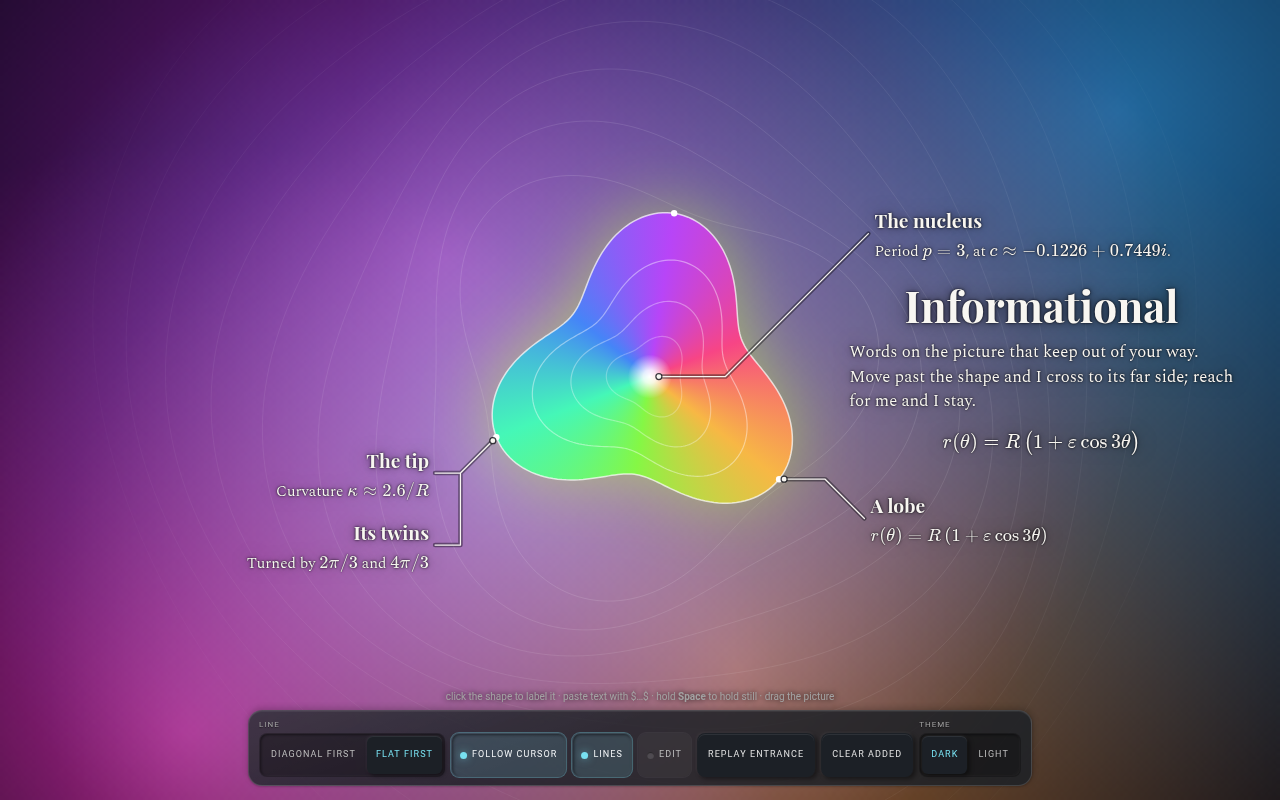
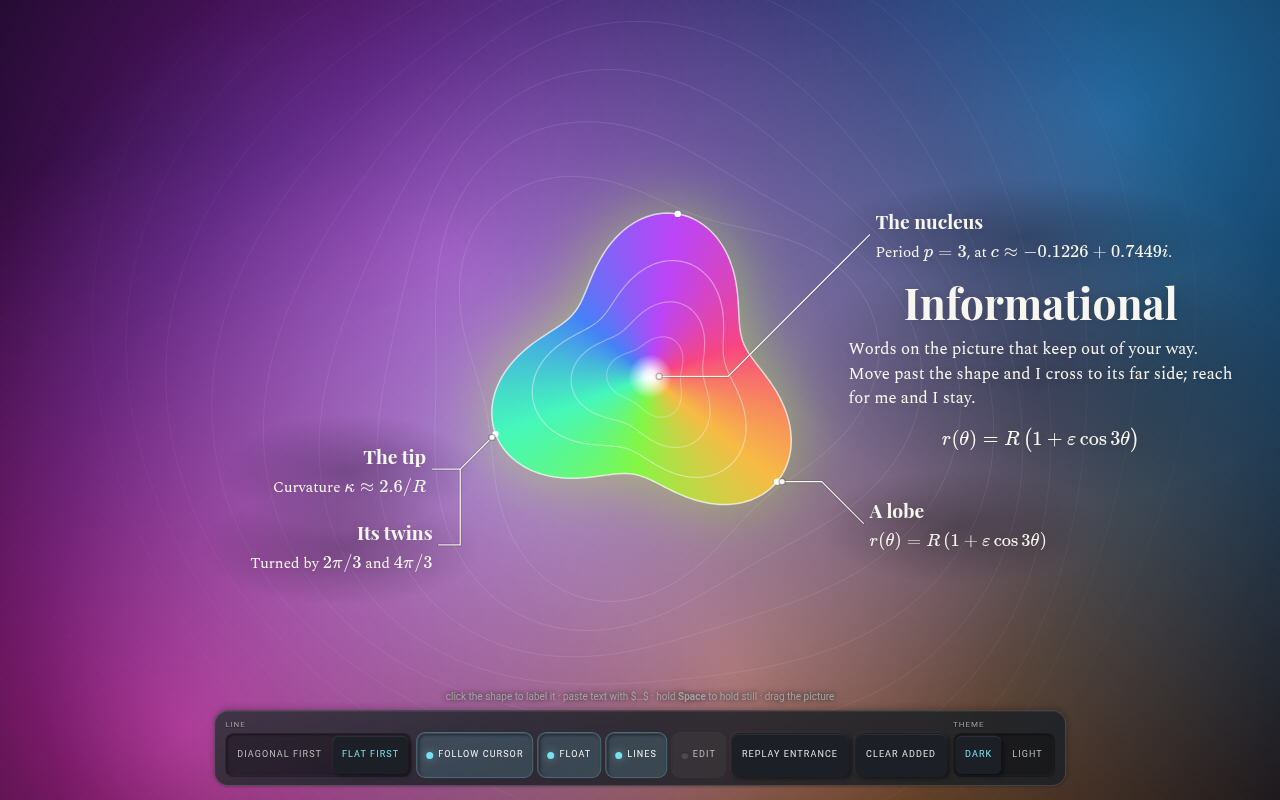
MIR 1.5.0-alpha.2: INFORMATIONAL retuned — a soft darkness under the words, and everything floats
Josh, on the first page: "way less drop shadow or outline. Let it be a soft
darkness underneath … make the cursor parallax/avoidance more stronger and
smoother, everything moving and floaty."

- info.css: no tight shadow round the glyphs. A feathered ellipse in the
  opposite ink sits under each block of words, and the glyphs carry only a
  broad, weak blur. The line's under-stroke is thinner.
- bodies.js: softer springs (labels k 70 ζ 0.6, blocks k 34 ζ 0.72); the
  pointer reaches 260 px, gives about 74 px at contact and lets go over
  0.9 s; a body may carry an offset on top of its rest; neighbours bump only
  when closer than 2 px in flight, so bodies whose leans differ can still
  rest; the cap is 300 frames; a runner can be kept alive.
- layer.js: PARALLAX, everything leans away from the cursor (blocks 38 px,
  labels 22–30 px, eased), held while a block is reached for, clamped inside
  the walls; DRIFT, a slow bob per item (off by default, on in the gallery
  page as FLOAT); a dropped label ends where the hand left it once the lean
  has caught up. setParallax, setDrift.
- gallery/info.html: FLOAT switch. Plates retaken.

Tests: 17 body checks (offset, alive, the new numbers), 20 browser checks
made lean-aware (a body rests on its seat plus its lean). npm test 30/30.

Claude-Session: https://claude.ai/code/session_01216PZJdRDXuZKuuo4X6KUw

diff --git a/mir/info/layer.js b/mir/info/layer.js
@@ -46,8 +46,12 @@ export const INFO = Object.freeze({
   gap: 36, out: 46, rise: 34, pad: 6, comb: 14, margin: 14,
   enter: { dot: 140, lineAt: 60, line: 260, textAt: 200, perLine: 30, maxLines: 6, stagger: 55, maxStagger: 5, block: 340, blockLine: 45 },
   exit: { text: 120, lineAt: 70, line: 120, dot: 90, stagger: 25 },
-  fade: 120, travel: 60,
-  block: { k: 95, zeta: 0.8 },
+  fade: 120, travel: 96,
+  block: { k: 34, zeta: 0.72 },
+  /* PARALLAX against the cursor (px of travel at the stage's edge, per kind; eased over tau seconds) and DRIFT, a
+     slow bob that never stops while it is on (Josh, 10-01: "everything moving and floaty") */
+  par: { block: 38, label: 22, step: 4, tau: 0.28 },                // depths differ by ≤ 16 px: less than gap − bump, so rests stay reachable
+  drift: { block: 5, label: 3.5 },
 });
 const SVG = 'http://www.w3.org/2000/svg';
 const sgn = (v) => (v < 0 ? -1 : 1);
@@ -70,7 +74,7 @@ const spring = () => {
   return (SPRING = ok ? s : { easing: motionToken('out'), ms: 300 });
 };
 
-export function createInfoLayer({ stage, host = stage.parentElement, subject = null, features = null, style = 'diagonal-first', follow = true, lines = true } = {}) {
+export function createInfoLayer({ stage, host = stage.parentElement, subject = null, features = null, style = 'diagonal-first', follow = true, lines = true, parallax = true, drift = false } = {}) {
   const doc = stage.ownerDocument, win = doc.defaultView;
   const root = doc.createElement('div'); root.className = 'mir-info';
   root.dataset.style = style; root.dataset.lines = lines ? 'on' : 'off';
@@ -86,16 +90,35 @@ export function createInfoLayer({ stage, host = stage.parentElement, subject = n
 
   /* ── the bodies ─────────────────────────────────────────────────────────────────────────────────────────── */
   const bodies = () => items.filter((i) => i.measured).map((i) => i.body);
+  const par = { x: 0, y: 0 };                                       // the pointer's place, −1…1 from the stage's middle, eased
+  let envT = 0;
   const env = () => {
-    ptr.heat = ptr.on ? Math.exp(-(performance.now() - ptr.t) / (PHYS.tau * 1000)) : 0;
-    for (const it of items) {                                       // a block crossing over the subject lifts off it
-      if (it.kind !== 'block' || !S.has) { it.body.lift = 0; continue; }
-      const b = it.body, over = b.x < S.right && b.x + b.w > S.left && b.y < S.bottom && b.y + b.h > S.top;
-      it.body.lift = over && Math.abs(b.vx) > 40 ? -sgn(S.cy - (b.y + b.h / 2)) * 700 : 0;
+    const now = performance.now(), dt = envT ? Math.min(0.1, (now - envT) / 1000) : 1 / 60; envT = now;
+    ptr.heat = ptr.on ? Math.exp(-(now - ptr.t) / (PHYS.tau * 1000)) : 0;
+    /* PARALLAX: everything leans away from the cursor, the blocks more than the labels, eased so it never jerks */
+    const on = parallax && follow && ptr.on && !ptr.touch && W > 0 && H > 0;
+    const tx = on ? Math.max(-1, Math.min(1, (ptr.x - W / 2) / (W / 2))) : 0, ty = on ? Math.max(-1, Math.min(1, (ptr.y - H / 2) / (H / 2))) : 0;
+    const ease = 1 - Math.exp(-dt / INFO.par.tau);
+    par.x += (tx - par.x) * ease; par.y += (ty - par.y) * ease;
+    if (Math.abs(tx - par.x) < 1e-3) par.x = tx; if (Math.abs(ty - par.y) < 1e-3) par.y = ty;   // arrive, so the rest is exact
+    const t = now / 1000;
+    for (const it of items) {
+      const b = it.body;
+      if (!it.el.hasAttribute('data-reach')) { it.px = -par.x * it.depth; it.py = -par.y * it.depth * 0.7; }   // reaching is not fleeing: it holds its lean
+      const dx = drift ? Math.sin(t * it.f1 + it.ph) * it.amp : 0, dy = drift ? Math.cos(t * it.f2 + it.ph * 1.7) * it.amp * 0.8 : 0;
+      b.ox = (it.px || 0) + dx; b.oy = (it.py || 0) + dy;
+      /* a lean never asks for a place beyond the soft walls, or the body could not reach it and would never rest */
+      const m = PHYS.margin, hiX = W - m - b.w, hiY = H - m - b.h;
+      if (hiX > m) b.ox = Math.max(Math.min(m, b.rx), Math.min(b.rx + b.ox, Math.max(hiX, b.rx))) - b.rx;
+      if (hiY > m) b.oy = Math.max(Math.min(m, b.ry), Math.min(b.ry + b.oy, Math.max(hiY, b.ry))) - b.ry;
+      if (it.kind !== 'block' || !S.has) { b.lift = 0; continue; }  // a block crossing over the subject lifts off it
+      const over = b.x < S.right && b.x + b.w > S.left && b.y < S.bottom && b.y + b.h > S.top;
+      b.lift = over && Math.abs(b.vx) > 40 ? -sgn(S.cy - (b.y + b.h / 2)) * 700 : 0;
     }
     return { pointer: frozen ? null : ptr, bounds: { left: 0, top: 0, right: W, bottom: H } };
   };
-  const runner = createRunner({ frame, bodies, env, paint: () => paint(), policy: motionPolicy, key: 'info:bodies:' + Math.random().toString(36).slice(2) });
+  const runner = createRunner({ frame, bodies, env, paint: () => paint(), policy: motionPolicy, alive: () => drift && !frozen && !destroyed && !doc.hidden,
+    key: 'info:bodies:' + Math.random().toString(36).slice(2) });
   const kick = () => { if (!frozen && !destroyed) runner.kick(); };
 
   /* ── geometry ───────────────────────────────────────────────────────────────────────────────────────────── */
@@ -193,7 +216,7 @@ export function createInfoLayer({ stage, host = stage.parentElement, subject = n
       if (!it.measured) continue;
       const b = it.body;
       setVar(it.el, 'translate', `${px(b.x)}px ${px(b.y)}px`);
-      if (it.kind === 'block') setAttr(it.el, 'data-travel', Math.hypot(b.x - b.rx, b.y - b.ry) > INFO.travel ? '' : null);
+      if (it.kind === 'block') setAttr(it.el, 'data-travel', Math.hypot(b.x - b.rx - b.ox, b.y - b.ry - b.oy) > INFO.travel ? '' : null);
     }
     const flat = root.dataset.style === 'flat-first', show = root.dataset.lines === 'on';
     for (const g of groups.values()) {
@@ -225,6 +248,11 @@ export function createInfoLayer({ stage, host = stage.parentElement, subject = n
     const it = { kind, id, el, text, pin, body: createBody({ id, x: 0, y: 0, w: 0, h: 0 }), measured: false, w: 0, h: 0, titleH: 0, titleW: 0,
       side: 0, offset: null, title: o.title || '', md: o.md || '', pinned: false, holdUntil: 0, anims: [] };
     if (kind === 'block') { it.body.k = INFO.block.k; it.body.zeta = INFO.block.zeta; it.side = 1; it.holdUntil = performance.now() + (o.hold || 0); }
+    /* how far it leans from the cursor, and its own slow bob: each item a little different, so they read as layers */
+    const n = items.length;
+    it.depth = kind === 'block' ? INFO.par.block : INFO.par.label + INFO.par.step * (n % 3);
+    it.amp = kind === 'block' ? INFO.drift.block : INFO.drift.label;
+    it.ph = n * 2.399963; it.f1 = 0.55 + 0.13 * (n % 3); it.f2 = 0.43 + 0.11 * (n % 4); it.px = 0; it.py = 0;
     items.push(it);
     ready.then(() => {
       if (destroyed || !it.el.isConnected) return;
@@ -402,10 +430,11 @@ export function createInfoLayer({ stage, host = stage.parentElement, subject = n
     const over = S.has && p.x > S.left && p.x < S.right && p.y > S.top && p.y < S.bottom;
     if (over !== ptr.onSubject) { ptr.onSubject = over; setAttr(root, 'data-pointer', over ? 'subject' : null); }
     judge();
-    /* only a pointer near a body is a disturbance — moving across empty picture costs nothing */
-    if (!frozen && items.some((it) => it.measured && inside(p, it.body, PHYS.reach))) kick();
+    /* with parallax every move over the stage leans the layer; without it only a pointer near a body disturbs it */
+    const overStage = p.x >= 0 && p.x <= W && p.y >= 0 && p.y <= H;
+    if (!frozen && ((parallax && follow && overStage) || items.some((it) => it.measured && inside(p, it.body, PHYS.reach)))) kick();
   }
-  function onLeave() { ptr.on = false; ptr.onSubject = false; setAttr(root, 'data-pointer', null); for (const it of items) { it.since = 0; setAttr(it.el, 'data-reach', null); } }
+  function onLeave() { ptr.on = false; ptr.onSubject = false; setAttr(root, 'data-pointer', null); for (const it of items) { it.since = 0; setAttr(it.el, 'data-reach', null); } kick(); }
   function hold(on) { held = on; applyFreeze(); }
   win.addEventListener('pointermove', onMove, on);
   win.addEventListener('pointerout', (e) => { if (!e.relatedTarget) onLeave(); }, on);   // out of the window
@@ -453,7 +482,10 @@ export function createInfoLayer({ stage, host = stage.parentElement, subject = n
     });
     const settleDrag = () => {
       const A = it.group.A, L = attach(it, A);
-      it.offset = { dx: L.x - A.x, dy: L.y - A.y };
+      /* less the lean it will have once the parallax has caught up with the hand, so it ends where the hand left it */
+      const on = parallax && follow && ptr.on && !ptr.touch && W > 0 && H > 0;
+      const lx = on ? -Math.max(-1, Math.min(1, (ptr.x - W / 2) / (W / 2))) * it.depth : 0, ly = on ? -Math.max(-1, Math.min(1, (ptr.y - H / 2) / (H / 2))) * it.depth * 0.7 : 0;
+      it.offset = { dx: L.x - A.x - lx - (it.body.ox - it.px), dy: L.y - A.y - ly - (it.body.oy - it.py) };
       it.body.held = false; setAttr(it.el, 'data-carried', null);
       computeRests(); kick();
     };
@@ -484,7 +516,10 @@ export function createInfoLayer({ stage, host = stage.parentElement, subject = n
     },
     addBlock({ md = '', hold = 0, id } = {}) { return handle(make('block', { md, hold, id })); },
     setStyle(s) { root.dataset.style = s === 'flat-first' ? 'flat-first' : 'diagonal-first'; schedule(); },
-    setFollow(v) { follow = !!v; if (!follow) { win.clearTimeout(dwellTimer); dwellTimer = 0; } },
+    setFollow(v) { follow = !!v; if (!follow) { win.clearTimeout(dwellTimer); dwellTimer = 0; } kick(); },
+    /** setParallax(on) — everything leans away from the cursor; setDrift(on) — a slow bob that keeps the frame on */
+    setParallax(v) { parallax = !!v; kick(); },
+    setDrift(v) { drift = !!v; kick(); },
     setLines(v) { root.dataset.lines = v ? 'on' : 'off'; schedule(); },
     setEdit(v) { edit = !!v; setAttr(root, 'data-edit', edit ? '' : null); },
     freeze(v) { userFrozen = !!v; applyFreeze(); },
@@ -508,7 +543,7 @@ export function createInfoLayer({ stage, host = stage.parentElement, subject = n
     debug() {
       return {
         subject: { ...S }, running: runner.running, frozen, size: { W, H },
-        items: items.map((i) => ({ id: i.id, kind: i.kind, x: i.body.x, y: i.body.y, rx: i.body.rx, ry: i.body.ry, w: i.w, h: i.h, side: i.side, titleH: i.titleH, measured: i.measured })),
+        items: items.map((i) => ({ id: i.id, kind: i.kind, x: i.body.x, y: i.body.y, rx: i.body.rx, ry: i.body.ry, ox: i.body.ox, oy: i.body.oy, w: i.w, h: i.h, side: i.side, titleH: i.titleH, measured: i.measured })),
         groups: [...groups.values()].map((g) => ({ key: String(g.key), A: g.A, d: g.ink.getAttribute('d') || '' })),
       };
     },

diff --git a/mir/info/bodies.js b/mir/info/bodies.js
@@ -8,32 +8,39 @@
  * exact and testable, and idle is zero work.  Under reduced motion there is no flight: bodies jump to rest.
  * (Draft 2 §A: the seats are chosen elsewhere; force only MOVES the bodies, which is what makes it feel alive.)
  *
- * The feel, settled by eye on gallery/info.html (units px and seconds, a body has mass 1):
- *   spring k 170 s⁻², ζ 0.72  → ω 13 rad/s, ~4 % overshoot, settled in ~0.45 s       (labels)
- *   blocks k 95 s⁻², ζ 0.8    → a heavier, calmer glide for a seat change
- *   neighbours: gap 18 px, push 520 s⁻² per px of overlap, along the shallower axis
- *   pointer: reach 120 px, push 4400 px/s² at contact fading as (1 − d/reach)², and with time since the last move
- *            (τ 180 ms) — a still pointer pushes nothing, so labels come home under it
- *   reaching is not fleeing: the push is scaled by how SIDEWAYS the pointer moves past a body; heading straight at
- *            it (or sitting on it) pushes nothing
+ * The feel (units px and seconds, a body has mass 1).  Josh, 2026-10-01, on the first page: "make the cursor
+ * parallax/avoidance more stronger and smoother, everything moving and floaty" — so the springs are soft and the
+ * pointer reaches far and lets go slowly:
+ *   spring k 70 s⁻², ζ 0.6    → ω 8.4 rad/s, ~9 % overshoot, settled in ~0.8 s        (labels: they float)
+ *   blocks k 34 s⁻², ζ 0.72   → a heavier, slower glide
+ *   neighbours: their RESTS are kept 18 px apart (gap); in flight they push only when closer than 2 px (bump),
+ *            520 s⁻² per px, along the shallower axis — so two bodies whose leans differ a little can still
+ *            reach their places and rest, instead of leaning on each other until the cap
+ *   pointer: reach 260 px, push 5200 px/s² at contact (≈ 74 px of give) fading as (1 − d/reach)², and with time
+ *            since the last move (τ 0.9 s) — a still pointer lets go slowly, and labels drift home under it
+ *   reaching is not fleeing: heading straight at a body (or sitting on it) pushes nothing; the push grows as
+ *            1 − toward² the more SIDEWAYS the pointer passes
+ *   a body may carry an OFFSET (ox, oy) on top of its rest: the layer's parallax and drift ride there, so the
+ *            rest itself stays the seat and `snap` lands on rest + offset
  *   walls: 10 px inside the bounds, 900 s⁻² per px
- *   rest: every |v| < 6 px/s and every |x − rest| < 0.4 px; a hard cap of 90 frames per disturbance
+ *   rest: every |v| < 6 px/s and every |x − target| < 0.4 px; a hard cap of 300 frames per disturbance
  *
  *   createBody({ id, x, y, w, h, k?, zeta? })      → a body (x, y = its box's top-left; rx, ry = its rest)
  *   step(bodies, dt, env, P)                       → { maxV, maxD } after one step (substepped)
  *   atRest(bodies, P), snap(bodies)                — the cut-off and the landing
  *   resolveRests(bodies, fixed, P)                 — rests pushed apart so no two rest boxes overlap (the seat pass)
- *   createRunner({ frame, bodies, env, paint, policy, P }) → { kick(), stop(), running, frames }
+ *   createRunner({ frame, bodies, env, paint, policy, P, alive? }) → { kick(), stop(), running, frames }
+ *     alive(): while it answers true the run never lands (a layer that drifts keeps its frame on purpose)
  */
 
 export const PHYS = Object.freeze({
-  k: 170, zeta: 0.72, gap: 18, push: 520, reach: 120, pointer: 4400, tau: 0.18,
-  wall: 900, margin: 10, vEps: 6, dEps: 0.4, cap: 90, maxDt: 1 / 30, sub: 1 / 120,
+  k: 70, zeta: 0.6, gap: 18, bump: 2, push: 520, reach: 260, pointer: 5200, tau: 0.9,
+  wall: 900, margin: 10, vEps: 6, dEps: 0.4, cap: 300, maxDt: 1 / 30, sub: 1 / 120,
 });
 
 /** createBody({ id, x, y, w, h, k, zeta }) — at rest where it starts */
 export function createBody(o) {
-  return { id: o.id, x: o.x, y: o.y, w: o.w || 0, h: o.h || 0, rx: o.rx ?? o.x, ry: o.ry ?? o.y,
+  return { id: o.id, x: o.x, y: o.y, w: o.w || 0, h: o.h || 0, rx: o.rx ?? o.x, ry: o.ry ?? o.y, ox: 0, oy: 0,
     vx: 0, vy: 0, k: o.k, zeta: o.zeta, held: false, solid: o.solid !== false, reach: o.reach !== false, lift: 0 };
 }
 
@@ -58,8 +65,8 @@ function sub(bodies, h, env, P) {
   for (let i = 0; i < n; i++) {
     const b = bodies[i]; if (b.held) continue;
     const k = b.k ?? P.k, c = 2 * (b.zeta ?? P.zeta) * Math.sqrt(k);
-    ax[i] += k * (b.rx - b.x) - c * b.vx;
-    ay[i] += k * (b.ry - b.y) - c * b.vy;
+    ax[i] += k * (b.rx + b.ox - b.x) - c * b.vx;
+    ay[i] += k * (b.ry + b.oy - b.y) - c * b.vy;
     /* the pointer parts them like water: strength fades with distance and with time since it moved; heading
        straight at a body (reaching) or sitting on it pushes nothing */
     if (pt && pt.heat > 0.01) {
@@ -67,7 +74,7 @@ function sub(bodies, h, env, P) {
       if (a.d > 0 && a.d < P.reach) {
         const sp = Math.hypot(pt.vx || 0, pt.vy || 0);
         const toward = sp > 1 ? Math.max(0, ((pt.vx * a.ux) + (pt.vy * a.uy)) / sp) : 1;
-        const s = P.pointer * pt.heat * (1 - a.d / P.reach) ** 2 * (b.reach ? 1 - toward : 1);
+        const s = P.pointer * pt.heat * (1 - a.d / P.reach) ** 2 * (b.reach ? 1 - toward * toward : 1);
         ax[i] += a.ux * s; ay[i] += a.uy * s;
       }
     }
@@ -81,7 +88,7 @@ function sub(bodies, h, env, P) {
   }
   for (let i = 0; i < n; i++) for (let j = i + 1; j < n; j++) {     // neighbours: a short-range push apart
     const a = bodies[i], b = bodies[j]; if (!a.solid || !b.solid) continue;
-    const o = overlap(a, a.x, a.y, b, b.x, b.y, P.gap); if (!o) continue;
+    const o = overlap(a, a.x, a.y, b, b.x, b.y, P.bump ?? P.gap); if (!o) continue;
     const horizontal = o.ox < o.oy;
     const dir = horizontal ? Math.sign((b.x + b.w / 2) - (a.x + a.w / 2)) || 1 : Math.sign((b.y + b.h / 2) - (a.y + a.h / 2)) || 1;
     const f = P.push * (horizontal ? o.ox : o.oy);
@@ -104,13 +111,13 @@ export function step(bodies, dt, env = {}, P = PHYS) {
 }
 function measure(bodies) {
   let maxV = 0, maxD = 0;
-  for (const b of bodies) { if (b.held) continue; maxV = Math.max(maxV, Math.hypot(b.vx, b.vy)); maxD = Math.max(maxD, Math.hypot(b.x - b.rx, b.y - b.ry)); }
+  for (const b of bodies) { if (b.held) continue; maxV = Math.max(maxV, Math.hypot(b.vx, b.vy)); maxD = Math.max(maxD, Math.hypot(b.x - b.rx - b.ox, b.y - b.ry - b.oy)); }
   return { maxV, maxD };
 }
 /** atRest(bodies, P) — nothing moving and everything home */
 export function atRest(bodies, P = PHYS) { const m = measure(bodies); return m.maxV < P.vEps && m.maxD < P.dEps; }
-/** snap(bodies) — land every free body exactly on its rest */
-export function snap(bodies) { for (const b of bodies) { if (b.held) continue; b.x = b.rx; b.y = b.ry; b.vx = 0; b.vy = 0; } }
+/** snap(bodies) — land every free body exactly on its rest (plus its offset, when it carries one) */
+export function snap(bodies) { for (const b of bodies) { if (b.held) continue; b.x = b.rx + b.ox; b.y = b.ry + b.oy; b.vx = 0; b.vy = 0; } }
 
 /** resolveRests(bodies, fixed, P) — push rest boxes apart until none overlap (bodies in `fixed` and held bodies do
  *  not move; the others yield).  Deterministic; a few passes are plenty for a screenful of labels. */
@@ -132,7 +139,7 @@ export function resolveRests(bodies, fixed = new Set(), P = PHYS, passes = 12) {
 
 /** createRunner({ frame, bodies, env, paint, policy, P, onRest }) — steps on the one frame only while it must.
  *  kick() is a disturbance: it (re)starts the run and resets the 90-frame cap. */
-export function createRunner({ frame, bodies, env = () => ({}), paint = () => {}, policy = () => 'full', P = PHYS, onRest = () => {}, key = 'info:bodies' }) {
+export function createRunner({ frame, bodies, env = () => ({}), paint = () => {}, policy = () => 'full', P = PHYS, onRest = () => {}, alive = () => false, key = 'info:bodies' }) {
   let running = false, frames = 0, last = 0, stopped = false;
   const land = () => { running = false; snap(bodies()); paint(); onRest(); };
   function tick(now) {
@@ -141,7 +148,7 @@ export function createRunner({ frame, bodies, env = () => ({}), paint = () => {}
     if (policy() !== 'full') { land(); return; }                    // reduced / off: no flight, they jump to rest
     const dt = last ? (now - last) / 1000 : 1 / 60; last = now;
     step(list, dt, env(), P); frames++;
-    if (atRest(list, P) || frames >= P.cap) { land(); return; }
+    if (!alive() && (atRest(list, P) || frames >= P.cap)) { land(); return; }
     paint();
     frame.coalesce(key, tick);                                       // queued during the batch: the next frame
   }

diff --git a/mir/info/info.css b/mir/info/info.css
@@ -1,9 +1,11 @@
 /* info/info.css — INFORMATIONAL: words on the picture.  Load after the kit's sheets (it is in mir.kit.house).
  *
- * THE LAW IT DRAWS: WORDS ON THE STAGE ARE INK PLUS A HALO — NEVER A PANE.  No background, no border, no drop
- * shadow height: the halo is the opposite ink, blurred, round every glyph and under every line, so the words read
- * over a loud picture without a box (INTENT, the proposed row "words on the stage").  The layer never takes a
- * click: `pointer-events: none` throughout, except a label while EDIT is on.
+ * THE LAW IT DRAWS: WORDS ON THE STAGE ARE INK OVER A SOFT DARKNESS — NEVER A PANE, NEVER AN OUTLINE.  Josh,
+ * 2026-10-01, on the first page: "way less drop shadow or outline.  Let it be a soft darkness underneath."  So
+ * there is no tight shadow round the glyphs: a wide, faint shade sits under each block of words (a feathered
+ * ellipse in the opposite ink, no edge), and the glyphs carry only a broad, weak blur of it (INTENT, the row
+ * "words on the stage").  The layer never takes a click: `pointer-events: none` throughout, except a label while
+ * EDIT is on.
  *
  * Type comes through tokens; the real faces (Spectral, Playfair Display, Alegreya SC for links) are in
  * mir/info/faces.css — a page links it before this sheet, and without it the system serifs stand in.  Sizes are read from the layer's own width (`cqi`), not the
@@ -13,11 +15,11 @@
 @layer mir.kit.house {
   .mir-info {
     --info-ink: hsl(40 33% 96%);
-    --info-paper: hsl(228 40% 4% / .78);
-    --info-paper-soft: hsl(228 40% 4% / .42);
-    --info-halo: 0 0 1px var(--info-paper), 0 0 3px var(--info-paper), 0 0 9px var(--info-paper-soft), 0 0 22px var(--info-paper-soft);
+    --info-paper: hsl(228 40% 4% / .27);
+    --info-paper-soft: hsl(228 40% 4% / .14);
+    --info-halo: 0 1px 12px var(--info-paper-soft), 0 2px 30px var(--info-paper-soft);
     --info-line-w: 1.25px;
-    --info-halo-w: 4.5px;
+    --info-halo-w: 3px;
     --info-lh: 1.45;
     --info-size-body: clamp(14px, 8px + .68cqi, 18px);
     --info-size-label: clamp(13px, 7.5px + .6cqi, 16.5px);
@@ -38,8 +40,8 @@
   }
   [data-theme="light"] .mir-info {
     --info-ink: hsl(232 22% 10%);
-    --info-paper: hsl(42 45% 97% / .86);
-    --info-paper-soft: hsl(42 45% 97% / .5);
+    --info-paper: hsl(42 45% 97% / .38);
+    --info-paper-soft: hsl(42 45% 97% / .2);
   }
 
   /* ── the lines: one svg, a halo stroke under the ink, a dot on the thing's edge ── */
@@ -52,12 +54,19 @@
   .mir-info-ink { stroke: var(--info-ink); stroke-width: var(--info-line-w); }
   .mir-info-dot { fill: var(--info-ink); stroke: var(--info-paper); stroke-width: var(--info-line-w); transform-box: fill-box; transform-origin: center; }
 
-  /* ── labels and blocks: ink, a halo, no box ── */
+  /* ── labels and blocks: ink over a soft shade, no box, no outline ── */
   .mir-info-label, .mir-info-block {
-    position: absolute; left: 0; top: 0; box-sizing: border-box; margin: 0;
+    position: absolute; left: 0; top: 0; box-sizing: border-box; margin: 0; isolation: isolate;
     text-shadow: var(--info-halo); visibility: hidden;
     transition: opacity var(--motion-structural) var(--ease-out);
   }
+  /* the shade: a feathered ellipse under the words, wider than they are, with no edge to see */
+  .mir-info-label::before, .mir-info-block::before {
+    content: ''; position: absolute; z-index: -1; inset: -2em -3.2em; pointer-events: none;
+    background: radial-gradient(ellipse closest-side, var(--info-paper) 0%, var(--info-paper-soft) 50%, transparent 100%);
+    opacity: 0; transition: opacity var(--motion-structural) var(--ease-out);
+  }
+  .mir-info-label[data-state="in"]::before, .mir-info-block[data-state="in"]::before { opacity: 1; }
   .mir-info-label[data-state="in"], .mir-info-block[data-state="in"] { visibility: visible; }
   .mir-info-label { width: max-content; max-width: var(--info-measure); font-size: var(--info-size-label); }
   .mir-info-label[data-side="left"] { text-align: right; }

diff --git a/gallery/info.html b/gallery/info.html
@@ -131,7 +131,7 @@ const subjectRect = () => { const r = P.R * 1.24; return { left: P.cx - r, top: 
 
 /* ── THE LAYER ─────────────────────────────────────────────────────────────────────────────────────────────── */
 resize();
-const layer = createInfoLayer({ stage: canvas, host, subject: subjectRect, features: feats });
+const layer = createInfoLayer({ stage: canvas, host, subject: subjectRect, features: feats, drift: true });
 window.__INFO = layer;
 const greeting = String.raw`# Informational
 Words on the picture that keep out of your way. Move past the shape and I cross to its far side; reach for me and I stay.
@@ -192,7 +192,8 @@ canvas.addEventListener('dblclick', () => { view.tx = 0; view.ty = 0; });
 const strip = document.getElementById('strip');
 strip.append(
   seg({ label: 'LINE', value: 'diagonal-first', options: [{ id: 'diagonal-first', label: 'DIAGONAL FIRST', title: 'thing → 45° → flat, the flat part underlining the title' }, { id: 'flat-first', label: 'FLAT FIRST', title: 'thing → flat → 45° → text' }], onChange: (v) => layer.setStyle(v) }).root,
-  sw({ label: 'FOLLOW CURSOR', value: true, title: 'the greeting keeps to the far side of the shape from your pointer', onChange: (v) => layer.setFollow(v) }).root,
+  sw({ label: 'FOLLOW CURSOR', value: true, title: 'everything leans away from your pointer, and the greeting keeps to the far side of the shape', onChange: (v) => layer.setFollow(v) }).root,
+  sw({ label: 'FLOAT', value: true, title: 'a slow drift, so nothing ever sits quite still', onChange: (v) => layer.setDrift(v) }).root,
   sw({ label: 'LINES', value: true, onChange: (v) => layer.setLines(v) }).root,
   sw({ label: 'EDIT', value: false, title: 'drag a label; its neighbours yield', onChange: (v) => layer.setEdit(v) }).root,
   trig({ label: 'REPLAY ENTRANCE', onFire: () => layer.replay() }).root,

diff --git a/docs/INFORMATIONAL.md b/docs/INFORMATIONAL.md
@@ -39,18 +39,22 @@ layer.replay(); layer.clear(kind?); layer.debug(); layer.destroy();
 | **EDIT** | Labels take the pointer (only then). A dragged label is held: its rest is the hand, and its neighbours yield through the same force step. Dropped, it keeps that place relative to its anchor. Escape or blur rolls it back (`pointer.drag`) |
 | **Click-through** | `pointer-events: none` everywhere except labels in EDIT. `elementFromPoint` under a label is the stage (tested) |
 | **Idle** | The frame is booked only while a body moves, an entrance is laid out, or the view changed. Once at rest: no rAF, and zero writes, reads and frames (tested over 600 ms) |
-| **Ink** | Ink plus a four-step halo in the opposite ink, and a halo stroke under every line. No pane, no box, no shadow height |
+| **Ink** | Ink over a soft darkness: a feathered ellipse in the opposite ink under each block of words, and a broad weak blur under the glyphs. No outline, no pane, no box (Josh, 10-01: "way less drop shadow or outline. Let it be a soft darkness underneath") |
+| **Parallax** | Everything leans away from the cursor, blocks more than labels, eased; a block being reached for holds its lean. `setParallax(on)`; FOLLOW CURSOR off stops it |
+| **Drift** | `drift: true` / `setDrift(on)`: a slow bob per item. While it is on the layer keeps its frame on purpose, so idle is no longer zero work; it is off by default and on in the gallery page (FLOAT) |
 
-## The numbers I settled on
+## The numbers (retuned 10-01 after Josh's first look: "stronger and smoother, everything moving and floaty")
 
 | What | Number | Feel |
 |---|---|---|
-| Label spring | k 170 s⁻², ζ 0.72 | ω 13 rad/s, ~3 % overshoot (measured 102.8 on a 100 px move), at rest in ~37 frames |
-| Block spring | k 95 s⁻², ζ 0.8 | A heavier glide for a seat change, with a 700 px/s² lift off the subject while crossing it |
-| Neighbours | gap 18 px, 520 s⁻² per px of overlap, along the shallower axis | The rest pass resolves rest boxes deterministically, 12 passes, blocks fixed |
-| Pointer | reach 120 px, 4400 px/s² at contact, (1 − d/120)², heat τ 180 ms | About 26 px of give at contact. A still pointer pushes nothing, so labels come home under it |
+| Label spring | k 70 s⁻², ζ 0.6 | ω 8.4 rad/s, ~9 % overshoot (measured 108.7 on a 100 px move), settled in ~0.8 s. Was k 170, ζ 0.72 |
+| Block spring | k 34 s⁻², ζ 0.72 | A slow, heavy glide, with a 700 px/s² lift off the subject while crossing it. Was k 95, ζ 0.8 |
+| Neighbours | rests 18 px apart (gap); in flight they push only when closer than 2 px (bump), 520 s⁻² per px | The rest pass resolves rest boxes deterministically, 12 passes, blocks fixed. The small bump lets bodies whose leans differ still reach their places |
+| Pointer | reach 260 px, 5200 px/s² at contact, (1 − d/260)², heat τ 0.9 s, scaled by 1 − toward² | About 74 px of give at contact, and it lets go slowly. Was 120 px, 4400, τ 180 ms |
+| Parallax | lean = −(pointer from the stage's middle, −1…1) × depth: block 38 px, labels 22 / 26 / 30 px; eased with τ 0.28 s; ×0.7 vertically | The lean is clamped so it never asks for a place beyond the walls |
+| Drift | block 5 px, labels 3.5 px, periods about 8–14 s, each item its own phase | |
 | Walls | 10 px in, 900 s⁻² per px | |
-| Stop | every \|v\| < 6 px/s and every \|x − rest\| < 0.4 px, else 90 frames per disturbance | Then every body is snapped exactly onto its rest |
+| Stop | every \|v\| < 6 px/s and every \|x − target\| < 0.4 px, else 300 frames per disturbance | Then every body is snapped exactly onto its target (rest + lean). Never while drift is on |
 | Label offset | out = escape from the subject + 46 + r; rise = 34 + min(40, 0.2·escape) | Comb members stack 14 px apart |
 | Block seat | 36 px from the subject, centred on it | |
 | Entrance | dot 140 ms (spring) · line from 60 ms over 260 ms (ease-out) · text from 200 ms, 30 ms per line (spring, k 300 c 22, ~330 ms, as CSS `linear()`) · labels stagger 55 ms outward from the subject (max 5) | About 0.7 s for a screenful |
